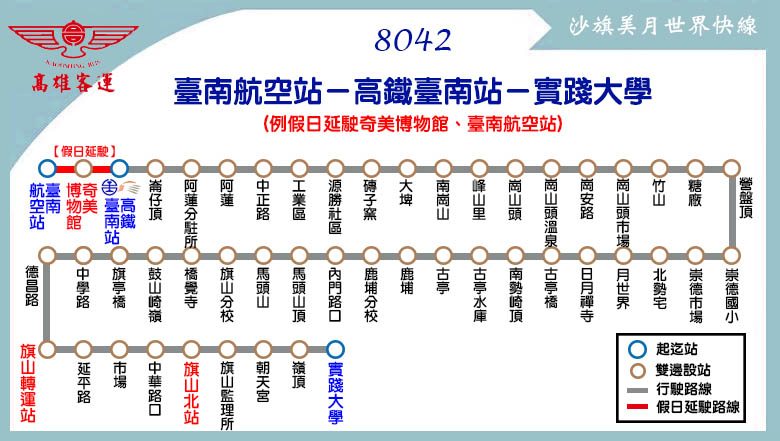
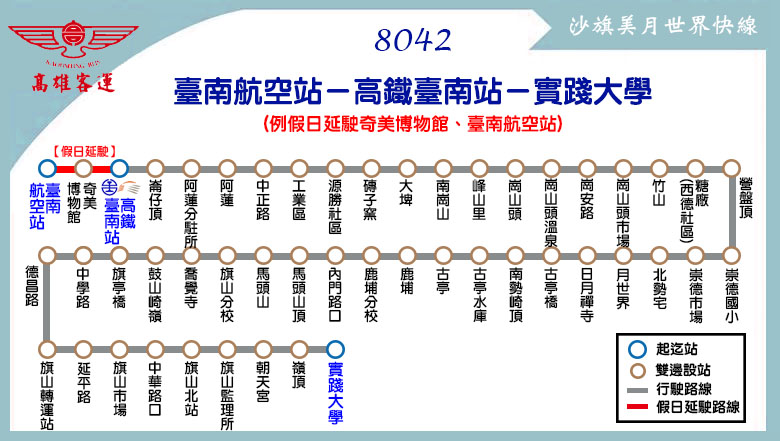
新增地圖：8035

diff --git a/route/fare_and_time/highway_bus_8035.js b/route/fare_and_time/highway_bus_8035.js
@@ -1,11 +1,11 @@
 highway_bus_8035_interval_name = ["南化","金馬寮","木柵","內門","中埔","旗山"];
 highway_bus_8035_interval_stop = [
-["南化","南化派出所","界址","西廍","東埔派出所"], // 南化
-["大坪","北頭","金馬寮","茄苳橋","分水嶺","內興里"], // 金馬寮
+["南化","南化派出所","界址","西部","東埔派出所"], // 南化
+["大坪","北頭","金馬寮","茄冬橋","分水嶺","內興里"], // 金馬寮
 ["椰樹橋","頂寮橋","木柵","蘇遠埔","內湖"], // 木柵
 ["口湖","內門","內門區公所","內門國小","十三甲","內埔橋","菜公坑"], // 內門
 ["中埔頭","內門國中","中埔","觀音亭","農會","二層橋","石溝","實踐大學","嶺頂"], // 中埔
-["朝天宮","旗山監理站","旗山北站","中華路口","市場","延平路","旗山轉運站"] // 旗山
+["朝天宮","旗山監理站","旗山北站","中華路口","旗山市場","延平路","旗山轉運站"] // 旗山
 ];
 highway_bus_8035_fare = [
 [26],
@@ -18,7 +18,7 @@ highway_bus_8035_fare = [
 // format = [time at the start stop] or
 // [time, other] or
 // [time, start_stop, end_stop, other]
-highway_bus_8035_main_stop_name = ["南化","茄苳橋","內門","中埔頭","實踐大學","旗山北站","旗山轉運站"];
+highway_bus_8035_main_stop_name = ["南化","茄冬橋","內門","中埔頭","實踐大學","旗山北站","旗山轉運站"];
 highway_bus_8035_main_stop_time_consume = [0,10,30,35,40,50,55];
 highway_bus_8035_important_stop = [0, 2, 4, 6]; // 南化, 內門, 實踐大學, 旗山轉運站
 var start_stop = 2; // 內門

diff --git a/route/fare_and_time/highway_bus_8042.js b/route/fare_and_time/highway_bus_8042.js
@@ -5,11 +5,11 @@ highway_bus_8042_interval_stop = [
 ["高鐵臺南站"], // 高鐵臺南站
 ["崙仔頂","阿蓮分駐所","阿蓮","中正路","工業區","源勝社區","磚子窯"], // 阿蓮
 ["大埤","南崗山","峰山里","崗山頭","崗山頭溫泉","崗安路","崗山頭市場"], // 崗山頭
-["竹山","糖廠","營盤頂","崇德國小","崇德市場","北勢宅","月世界","日月禪寺","古亭橋"], // 月世界
+["竹山","糖廠(西德社區)","營盤頂","崇德國小","崇德市場","北勢宅","月世界","日月禪寺","古亭橋"], // 月世界
 ["南勢崎頂","古亭水庫","古亭"], // 古亭
 ["鹿埔","鹿埔分校","內門路口"], // 鹿埔
-["馬頭山頂","馬頭山","旗山分校","橋覺寺","鼓山崎嶺"], // 馬頭山
-["旗亭橋","中學路","德昌路","旗山轉運站","延平路","市場","中華路口","旗山北站"], // 旗山
+["馬頭山頂","馬頭山","旗山分校","喬覺寺","鼓山崎嶺"], // 馬頭山
+["旗亭橋","中學路","德昌路","旗山轉運站","延平路","旗山市場","中華路口","旗山北站"], // 旗山
 ["旗山監理所","朝天宮","嶺頂","實踐大學"] // 中埔
 ];
 highway_bus_8042_fare = [

diff --git a/highway/8035.html b/highway/8035.html
@@ -14,9 +14,8 @@
 <link href="../css/radio_style.css" rel="stylesheet" />
 <script src="../tools/web_model.js"></script> 
 <script type="text/javascript">
-	title_name = '公路客運';
-	title_name_en = 'Highway Bus';
-	map_display = false;
+	title_name = '高雄市公車';
+	title_name_en = 'Kaohsiung City Bus';
 	header_code();
 </script>
 </head>
